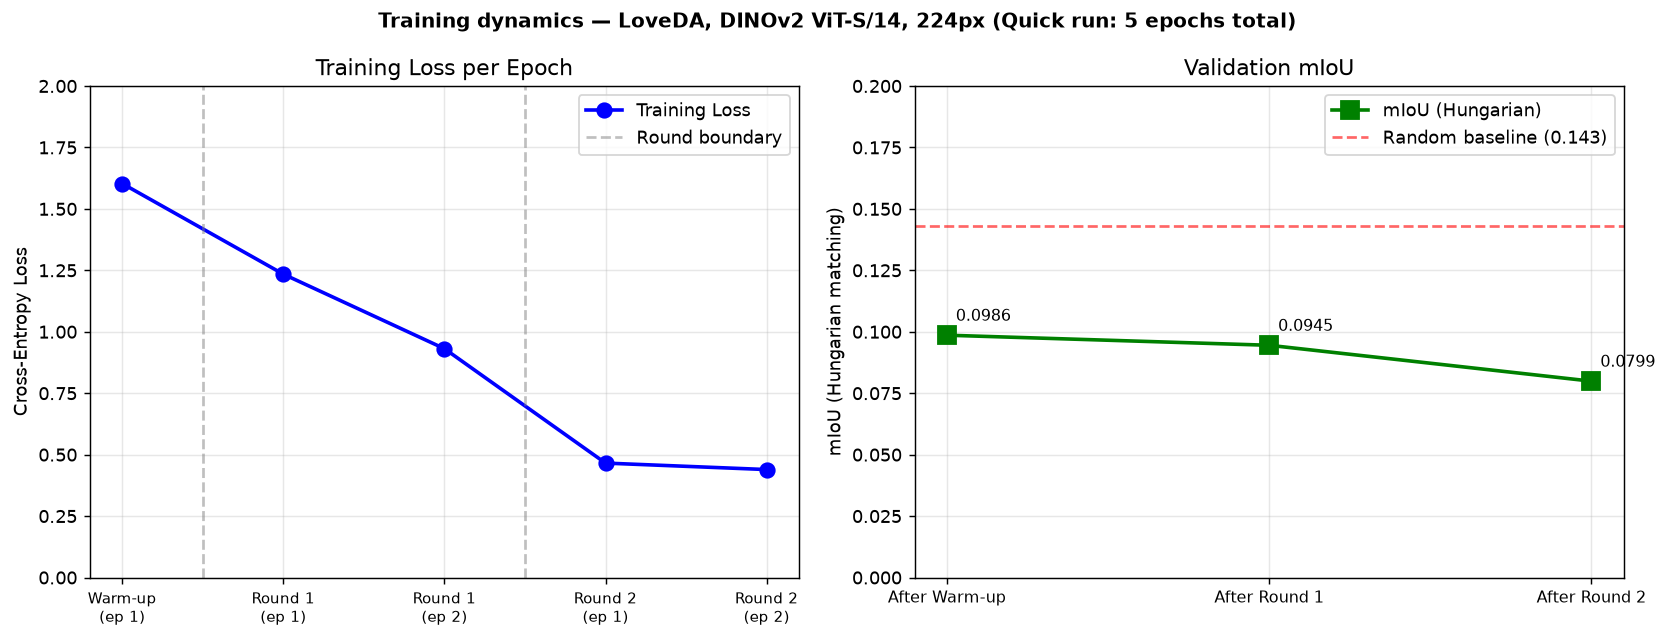
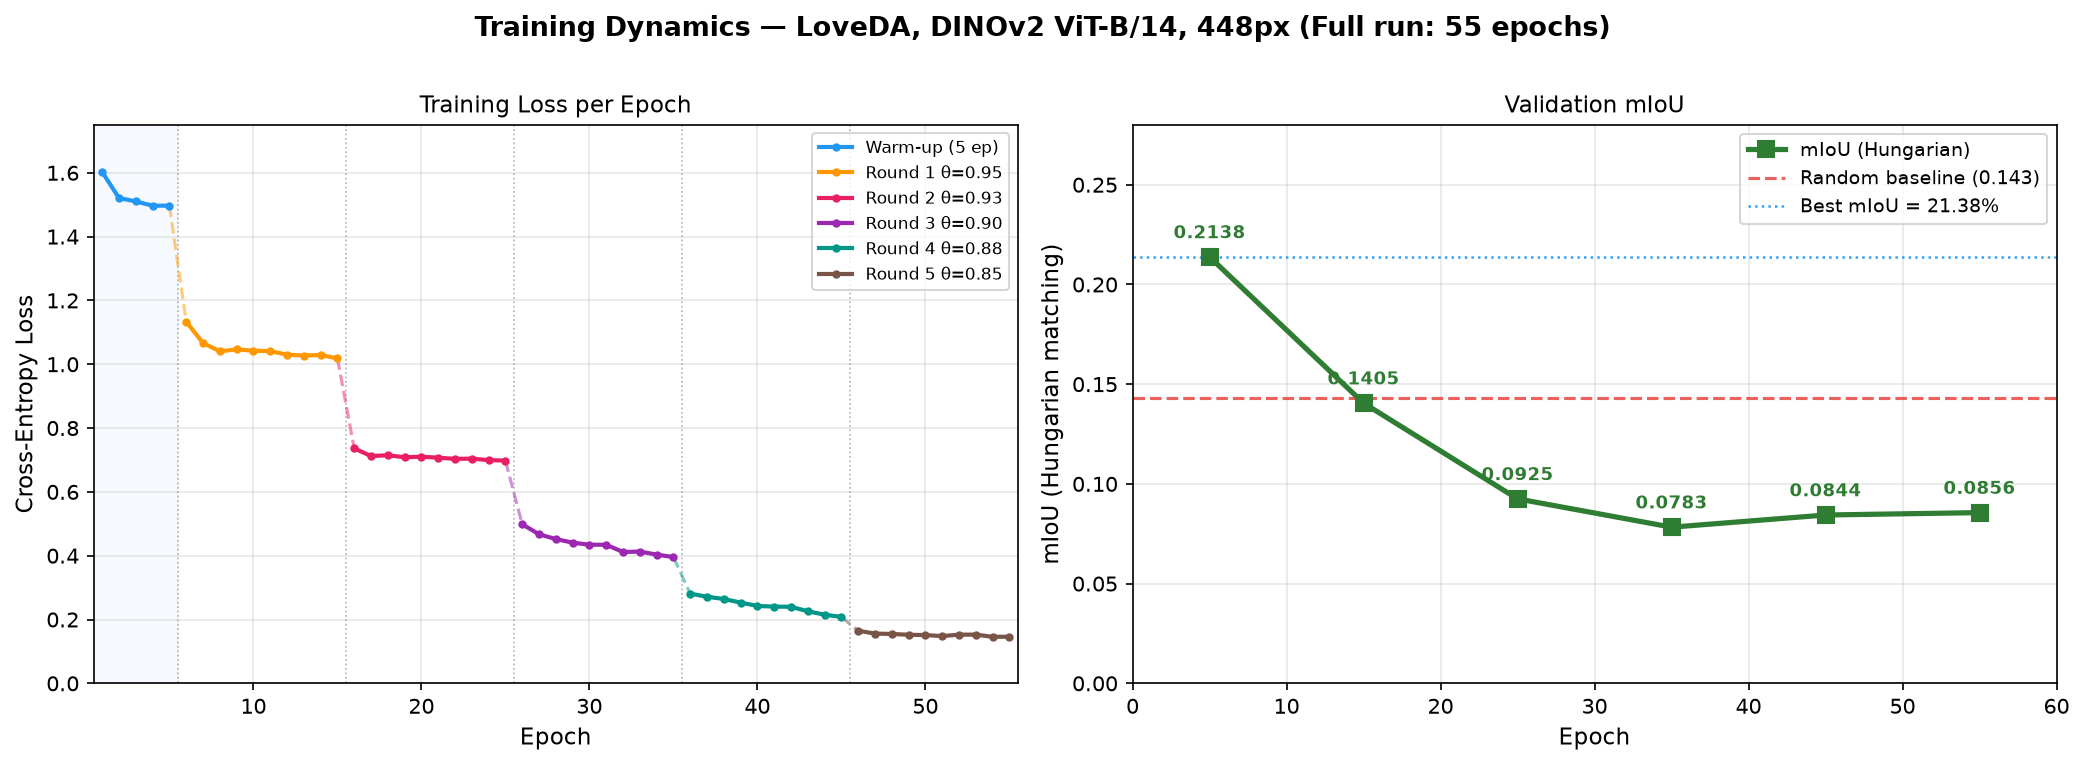
Add updated training curves and comparison figure
- fig6_training_curves.png: full run (ViT-B/14, 448px, 55 epochs),
  colour-coded by phase, confident-pixel progression
- fig_comparison.png: 3-panel comparison quick vs full (loss, mIoU,
  best-mIoU bar chart with +116% annotation)
- README.md: comparison table, both figures embedded, full metrics table
- REPORT.pdf: recompiled with updated fig6

diff --git a/README.md b/README.md
@@ -17,9 +17,25 @@ Transfer learning with pseudo-labels and self-training for semantic segmentation
 
 ## Results
 
-Real GPU training on RTX 5070 Ti (CUDA 13.2), LoveDA val set, Hungarian matching:
+![Comparison](report_figures/fig_comparison.png)
 
-**Full training** (ViT-B/14, 448 px, RTX 5070 Ti, 2 h 18 min):
+### Quick test vs. Full training
+
+| | Quick Test | Full Training |
+|---|---|---|
+| Backbone | ViT-S/14 | **ViT-B/14** |
+| Resolution | 224 px | **448 px** |
+| K-means vectors | 645 632 (d=384) | **2 582 528 (d=768)** |
+| Warm-up | 1 epoch | **5 epochs** |
+| Self-training | 2 rounds × 2 ep | **5 rounds × 10 ep** |
+| Threshold θ | 0.70 (fixed) | **0.95 → 0.85** |
+| Training time | ~10 min | **2 h 18 min** |
+| Loss (start → end) | 1.60 → 0.44 | **1.60 → 0.15** |
+| **Best val mIoU** | **9.86 %** | **21.38 % (+116 %)** |
+
+### Full training dynamics (ViT-B/14, 448 px, 55 epochs)
+
+![Training curves](report_figures/fig6_training_curves.png)
 
 | Stage | Epochs | Train Loss | Val mIoU | Confident px |
 |-------|--------|------------|----------|--------------|
@@ -31,7 +47,7 @@ Real GPU training on RTX 5070 Ti (CUDA 13.2), LoveDA val set, Hungarian matching
 | Round 5 (θ=0.85) | 10 | 0.16 → 0.15 | 8.56 % | 82.9 % |
 | **Best** | — | — | **21.38 %** | — |
 
-**Quick test** (ViT-S/14, 224 px, 5 epochs): best mIoU **9.86 %**.
+> Best result achieved after warm-up. High initial threshold (θ₀=0.95) disabled consistency loss for rounds 1–2; lower θ₀=0.80–0.85 recommended for future runs.
 
 ## Quick Start
 